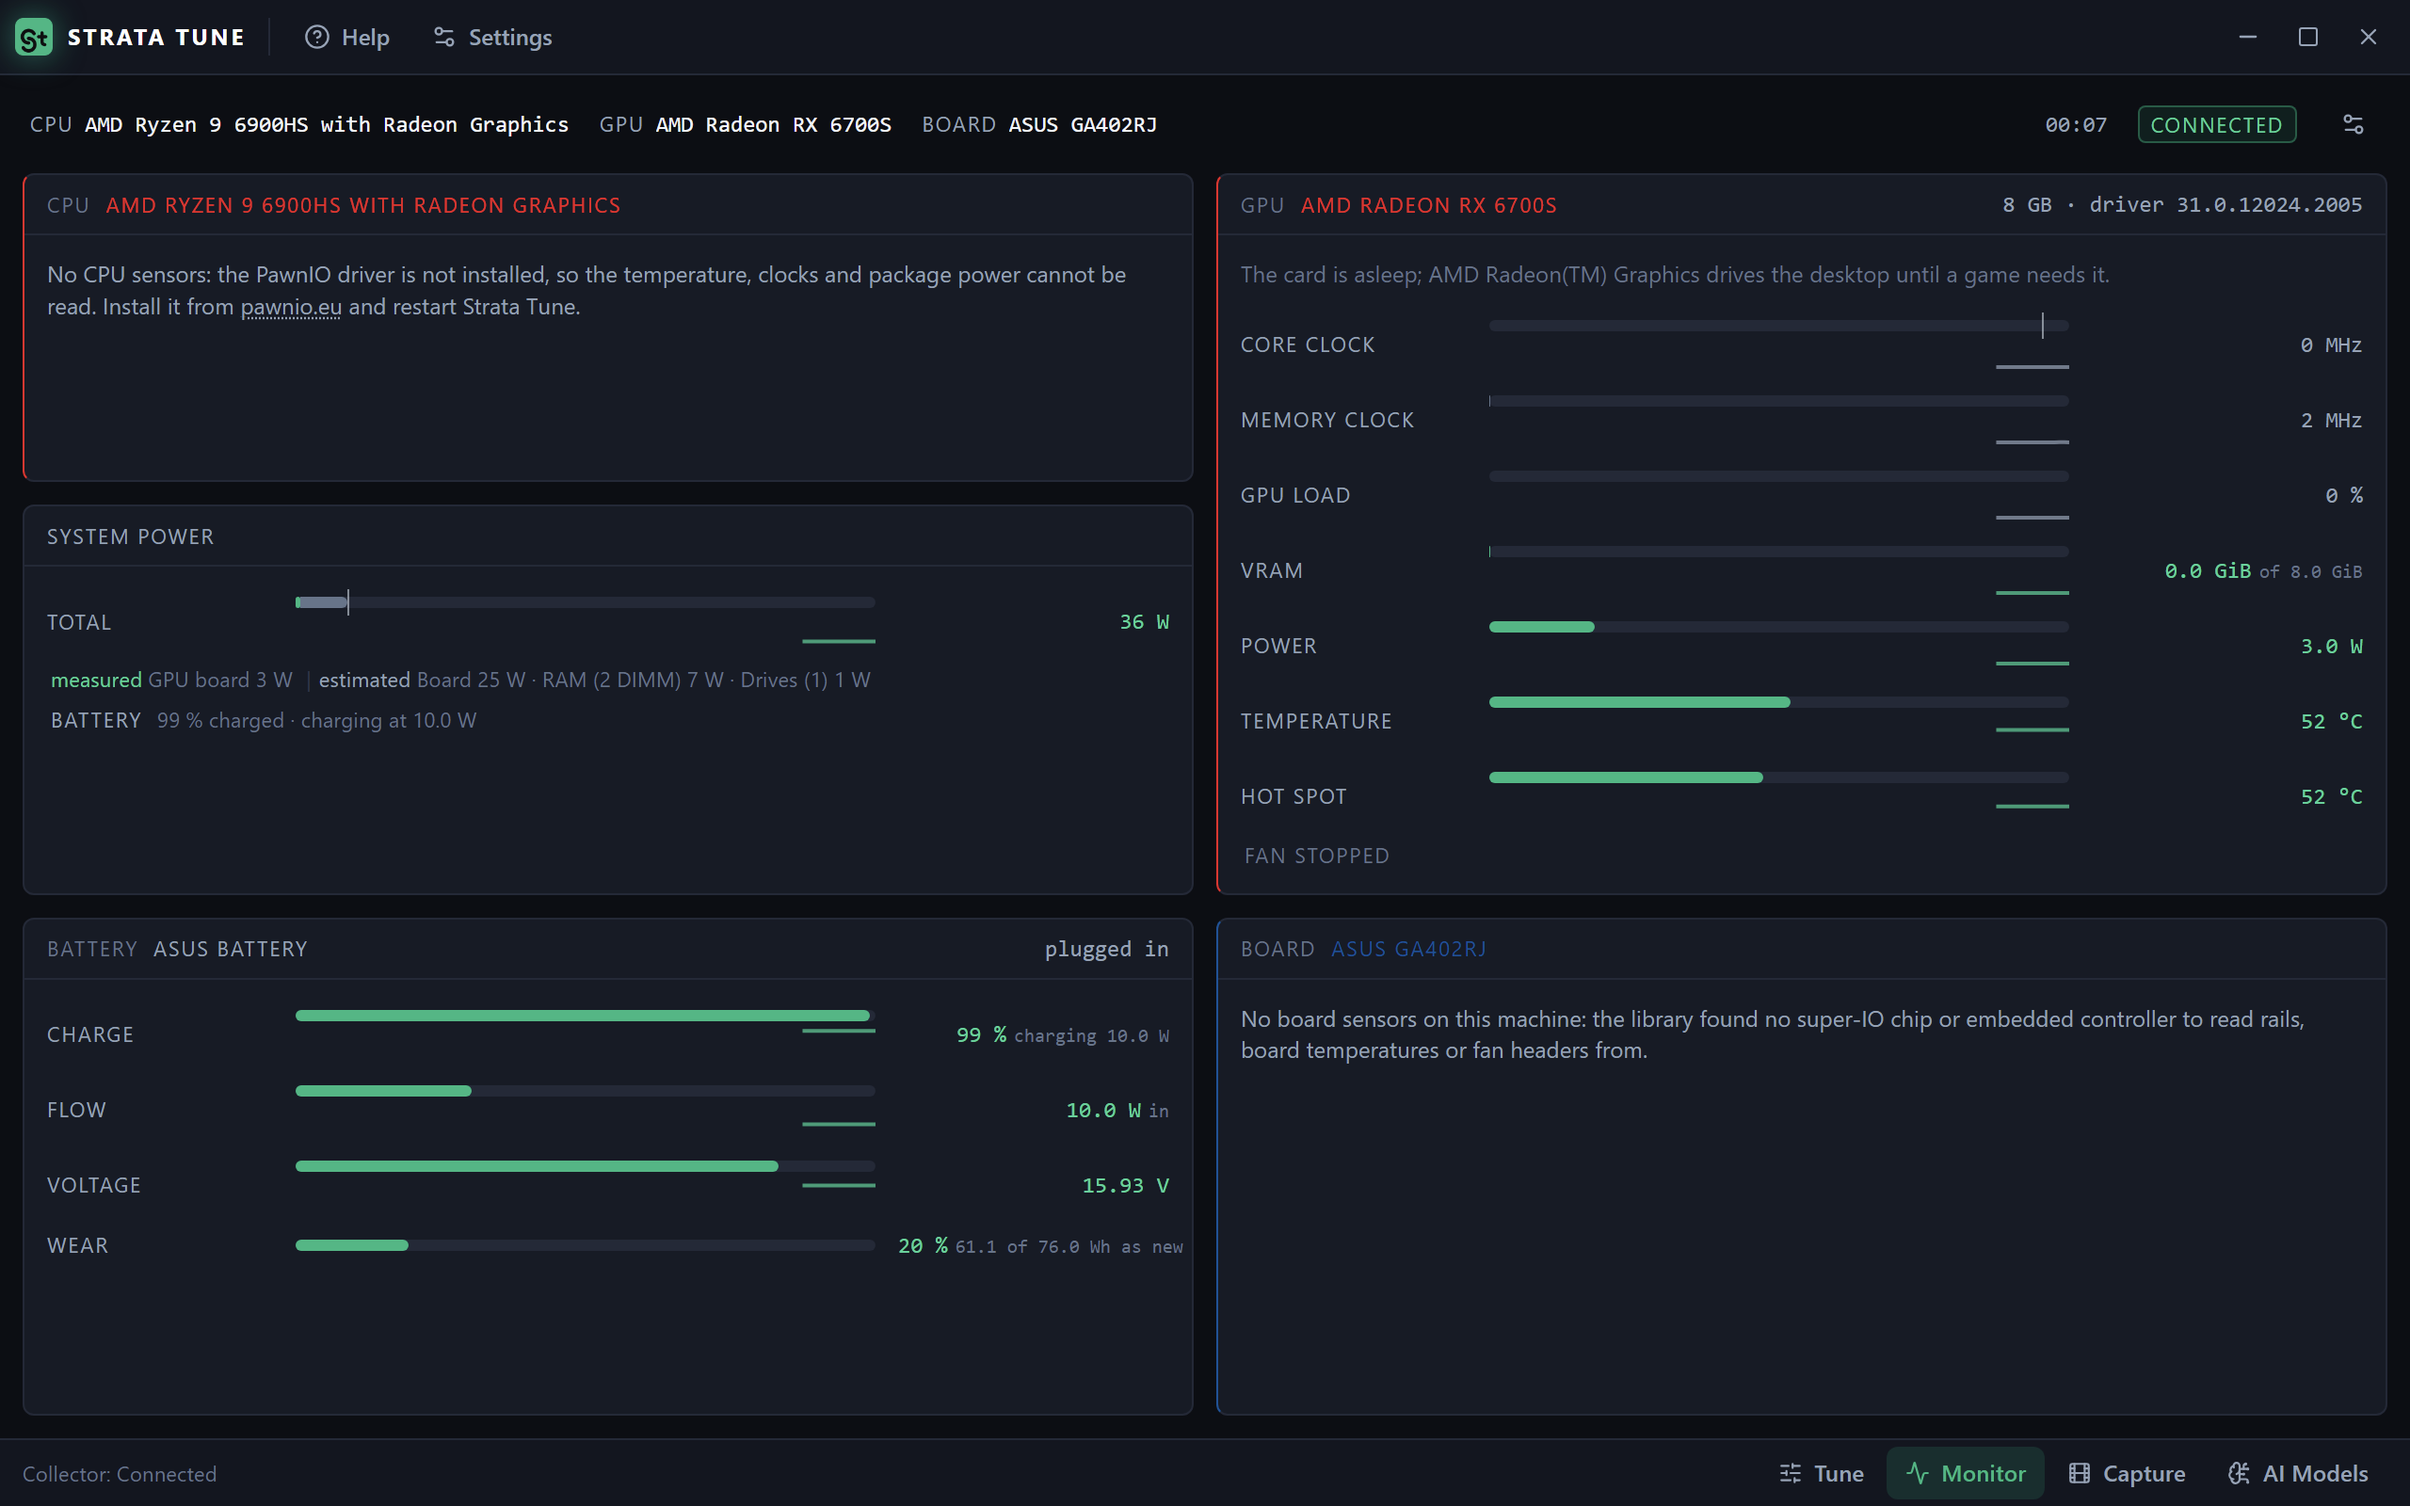
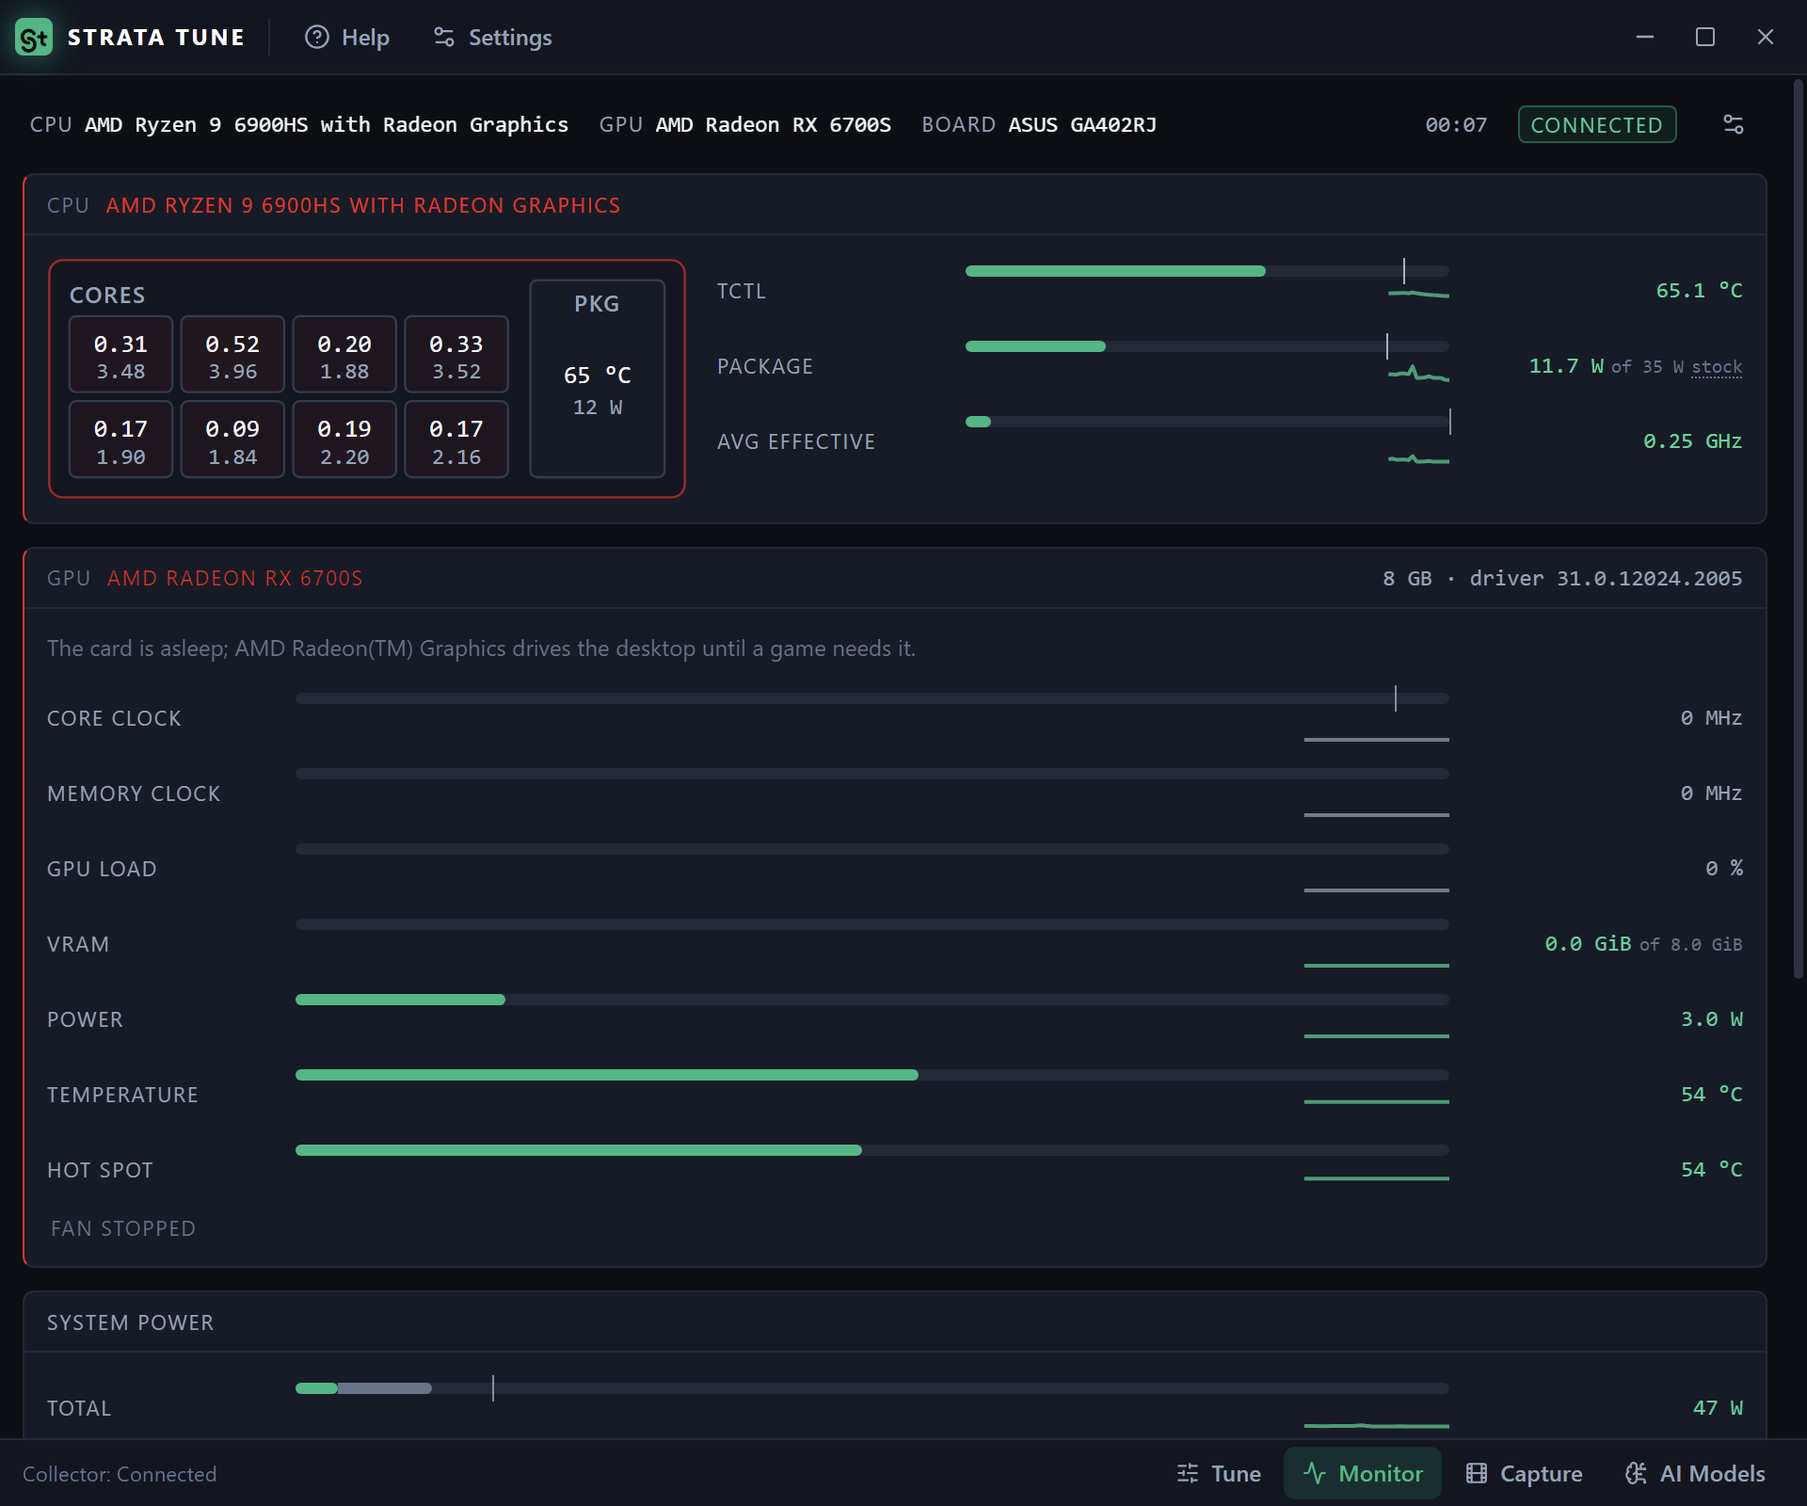
Audit: the package-power card on a laptop names the vendor app's mode; the laptop with PawnIO verified
With PawnIO 2.2.0 installed on the first laptop the CPU panel and the four CPU rules
finally had sensors: the 20 s all-core load read 92 °C (3 °C from the 6900HS's 95 °C
Tjmax, clocks holding 3436 to 3312 MHz effective), 3.4 GHz all-core and 37 W package
against the 35 W default TDP. The package-power card then said "PBO / raised PPT active
… enter the limit you set in the BIOS or Ryzen Master": on a laptop that limit is the
vendor app's power mode (Armoury Crate here), which is what the Monitor's gear menu
already says, so the card and its fix now say the same on a laptop. Screenshots of the
Monitor and Tune pages with the sensors live replace the PawnIO-less ones; the plan's
laptop row records what the sensors showed.

diff --git a/src/analysis/audit.ts b/src/analysis/audit.ts
@@ -717,13 +717,19 @@ function checkCpuPackagePower(s: StaticSnapshot, run: LoadRun | null, cpuPptW: n
   const stock = spec?.stockPowerW;
   const configured = cpuPptW !== null && cpuPptW > 0 ? Math.round(cpuPptW) : null;
   // The control is the gear on the Monitor page (the button under this card opens it); there is no Settings page.
-  const setIt = `Enter the limit you set in the BIOS or Ryzen Master with the button below (Monitor page, gear > CPU tuning you set in BIOS > ${name}), so the Package bar and this check use it.`;
+  // On a laptop the limit is the vendor app's power mode, not a BIOS setting (plan 17d row 2; the Monitor's gear menu says the same).
+  const laptop = s.chassis.isLaptop;
+  const setIt = laptop
+    ? `Enter the ${name} your vendor app's mode runs at with the button below (Monitor page, gear > CPU power mode you set in the vendor app > ${name}), so the Package bar and this check use it.`
+    : `Enter the limit you set in the BIOS or Ryzen Master with the button below (Monitor page, gear > CPU tuning you set in BIOS > ${name}), so the Package bar and this check use it.`;
   if (configured === null && stock === undefined) {
     return finding(base, info(`Package power averaged ${measured} W under the all-core load; this part's stock limit is not in the table, so there is no verdict until the limit is set.`, setIt));
   }
   if (configured === null && stock !== undefined && measured > stock * PBO_OVER_STOCK) {
     // Never claim to read the limit: the sensors cannot (dependencies.md); the measurement over stock is the inference.
-    return finding(base, info(`PBO / raised ${name} active — measured ${measured} W over the stock ${stock} W; set your ${name} limit here.`, setIt));
+    return finding(base, info(laptop
+      ? `The vendor app's power mode runs the CPU above its ${stock} W default: ${measured} W under the all-core load. Set the mode's ${name} here.`
+      : `PBO / raised ${name} active — measured ${measured} W over the stock ${stock} W; set your ${name} limit here.`, setIt));
   }
   const limit = configured ?? stock!;
   const label = configured === null ? ' (stock)' : ' (set by you)';

diff --git a/tests/audit.test.ts b/tests/audit.test.ts
@@ -1103,3 +1103,17 @@ describe("timer resolution (plan section 8, the About hub's Timers tool feeds it
     expect(f.fix).toContain('Close them');
   });
 });
+
+describe('the first laptop with PawnIO installed (2026-09-19, 20 s all-core load: 92 °C, 3.4 GHz, 37 W)', () => {
+  it('the package-power card on a laptop names the vendor app\'s mode, never the BIOS or Ryzen Master', () => {
+    const s = devbox();
+    s.chassis = { isLaptop: true, chassisTypes: [10] };
+    s.cpu = { name: 'AMD Ryzen 9 6900HS with Radeon Graphics', family: 25, model: 68, cores: 8, logical: 16, maxClockMhz: 3301 };
+    const run = cpuRun(20, () => ({ packageW: 37, tctlC: 92, avgEffectiveMhz: 3400, maxCoreMhz: 3480 }));
+    const f = audit(s, { cpuLoad: run })['cpu-package-power'];
+    expect(f.state).toBe('info');
+    expect(f.detail).toBe("The vendor app's power mode runs the CPU above its 35 W default: 37 W under the all-core load. Set the mode's PPT here.");
+    expect(f.fix).toContain("your vendor app's mode runs at");
+    expect(f.fix).not.toMatch(/BIOS|Ryzen Master/);
+  });
+});

diff --git a/docs/master-plan.md b/docs/master-plan.md
@@ -988,7 +988,7 @@ AMD GPU (`docs/screenshots/laptop/`, fixture `tests/fixtures/classes/gaming-lapt
 
 | Machine | Class | CPU · GPU · RAM · board · Windows · drivers | What 0.1.0 did on it, and what changed |
 |---|---|---|---|
-| ASUS ROG Zephyrus G14 GA402RJ (2022), BIOS 318 | gaming laptop, AMD/AMD hybrid | Ryzen 9 6900HS (8c/16t, Rembrandt) with Radeon Graphics (iGPU, 512 MiB) · Radeon RX 6700S 8 GB (dGPU, asleep at idle; the iGPU drives the desktop) · 16 GB DDR5-4800 (2 × Samsung M425R1GB4BB0-CQK0D SO-DIMM) · Micron 2450 1 TB NVMe · Windows 11 Home 23H2 build 22631.6199 · Adrenalin 31.0.12024.2005 (2022-09-06) · PawnIO not installed at first · account not in *Performance Log Users* | **Worked:** launch, disclaimer, UAC, handshake (warm at t+2.2 s), both AMD GPUs' library sensors, RAM, NVMe SMART, PDH, the non-GPU audit rules, the board panel's one-line absence, the model list, the bench on the right adapter (RX 6700S, 197 GB/s of 224, 5.5 TFLOPS fp32), About and the serial-free system report, the no-orphan rule (collector gone 0.3 s after the window, three times). **Broke, fixed on branch `laptop-amd`:** a second audit could start while the first still ran (the run now lives outside the page); six "No NVIDIA GPU was found" audit cards (now one plain card, the GPU loads skipped); four "sensor not readable" CPU cards (now one sentence naming PawnIO, the CPU load skipped); AI Models read "no discrete GPU · RAM 16 GiB", threw away its own bench and flashed the dev box's 5090 for a second (the snapshot now lists every adapter; the RX 6700S sizes the models); the Monitor's card panel said "integrated · no discrete card" and had no battery panel (a discrete AMD card gets its VRAM, memory clock, hot spot and fan; a battery panel exists on laptops); the CPU panel was blank without PawnIO (now the sentence and the link); Capture failed with PresentMon's exit 6 after the bench had started (the page now checks *Performance Log Users* first and offers to add the account; the bench is closed when the trace is refused); the Headroom switch was offered on a card the hunt cannot touch (now the reason, no switch); the power-plan rule called an unplugged laptop's efficiency mode a FIX (battery-aware now); the Samsung SO-DIMMs were "not in the table". |
+| ASUS ROG Zephyrus G14 GA402RJ (2022), BIOS 318 | gaming laptop, AMD/AMD hybrid | Ryzen 9 6900HS (8c/16t, Rembrandt) with Radeon Graphics (iGPU, 512 MiB) · Radeon RX 6700S 8 GB (dGPU, asleep at idle; the iGPU drives the desktop) · 16 GB DDR5-4800 (2 × Samsung M425R1GB4BB0-CQK0D SO-DIMM) · Micron 2450 1 TB NVMe · Windows 11 Home 23H2 build 22631.6199 · Adrenalin 31.0.12024.2005 (2022-09-06) · PawnIO not installed at first · account not in *Performance Log Users* | **Worked:** launch, disclaimer, UAC, handshake (warm at t+2.2 s), both AMD GPUs' library sensors, RAM, NVMe SMART, PDH, the non-GPU audit rules, the board panel's one-line absence, the model list, the bench on the right adapter (RX 6700S, 197 GB/s of 224, 5.5 TFLOPS fp32), About and the serial-free system report, the no-orphan rule (collector gone 0.3 s after the window, three times). **Broke, fixed on branch `laptop-amd`:** a second audit could start while the first still ran (the run now lives outside the page); six "No NVIDIA GPU was found" audit cards (now one plain card, the GPU loads skipped); four "sensor not readable" CPU cards (now one sentence naming PawnIO, the CPU load skipped); AI Models read "no discrete GPU · RAM 16 GiB", threw away its own bench and flashed the dev box's 5090 for a second (the snapshot now lists every adapter; the RX 6700S sizes the models); the Monitor's card panel said "integrated · no discrete card" and had no battery panel (a discrete AMD card gets its VRAM, memory clock, hot spot and fan; a battery panel exists on laptops); the CPU panel was blank without PawnIO (now the sentence and the link); Capture failed with PresentMon's exit 6 after the bench had started (the page now checks *Performance Log Users* first and offers to add the account; the bench is closed when the trace is refused); the Headroom switch was offered on a card the hunt cannot touch (now the reason, no switch); the power-plan rule called an unplugged laptop's efficiency mode a FIX (battery-aware now); the Samsung SO-DIMMs were "not in the table"; turning the Headroom switch on blanked the window (React #310, a hook after an early return, a 0.1.0 bug on every machine; fixed, and a page boundary keeps the rest of the app alive). **With PawnIO 2.2.0 installed (same day):** the CPU panel draws the eight cores, Tctl and the package against the 35 W default; the 20 s all-core load read 92 °C (3 °C from Tjmax, clocks holding), 3.4 GHz effective, 37 W, and the four CPU rules judged it; the package-power card names the vendor app's mode on a laptop, not the BIOS. |
 
 Rules that follow: (1) every page ships with a fixture per class under `tests/fixtures/classes/`
 (snapshot + a tick + an audit input), the render tests iterate the matrix, and the design
